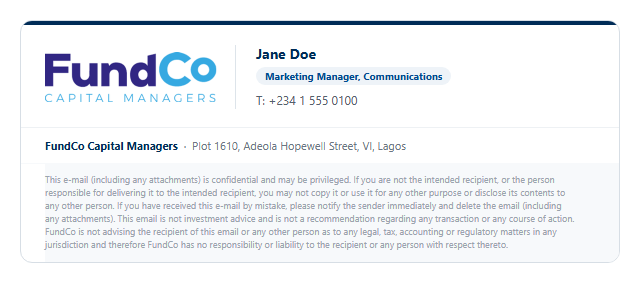
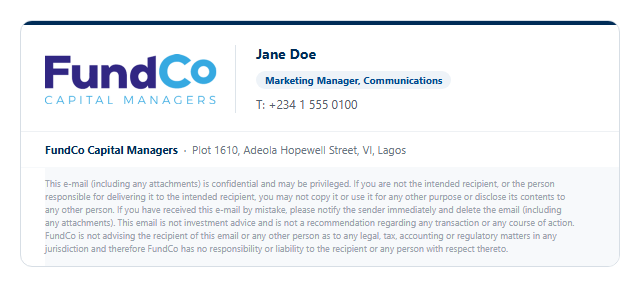
Fix FundCo rule update failure and make deploy script report real failures
FundCo's disclaimer text was being rejected by Exchange's own HTML
validation on Set-TransportRule, surfaced as a non-terminating
ParameterTransformationException from inside the EXO remoting proxy -- one
that $ErrorActionPreference = 'Stop' does not catch, so the script printed
"Updated" even though the call failed and FundCo's rule kept its old
(pre-redesign, duplicate-address) content. Root cause: FundCo's template was
the only one nesting a table three levels deep (outer table -> logo/contact
row -> a one-cell table used just for the job-title "chip"); every template
that deployed successfully nests at most two levels. Flattened the chip to a
styled <span>, removing the third table level.

Also hardened deploy-signatures.ps1 itself: each New-TransportRule/
Set-TransportRule call now checks -ErrorVariable explicitly and reports
FAILED (in red, with the actual error message) instead of silently claiming
success, with a summary list of any failed rules at the end of the run.

diff --git a/templates/fundco-ng-footer.html b/templates/fundco-ng-footer.html
@@ -37,13 +37,7 @@
               </tr>
               <tr>
                 <td style="padding:0 0 7px 0;">
-                  <table role="presentation" cellpadding="0" cellspacing="0" border="0">
-                    <tr>
-                      <td bgcolor="#eef3f8" style="background-color:#eef3f8;border-radius:10px;padding:2px 9px;font-family:'Segoe UI',Arial,Helvetica,sans-serif;font-size:10px;line-height:14px;color:#004a91;font-weight:bold;">
-                        %%Title%%, %%Department%%
-                      </td>
-                    </tr>
-                  </table>
+                  <span style="display:inline-block;background-color:#eef3f8;border-radius:10px;padding:2px 9px;font-family:'Segoe UI',Arial,Helvetica,sans-serif;font-size:10px;line-height:14px;color:#004a91;font-weight:bold;">%%Title%%, %%Department%%</span>
                 </td>
               </tr>
               <tr>
